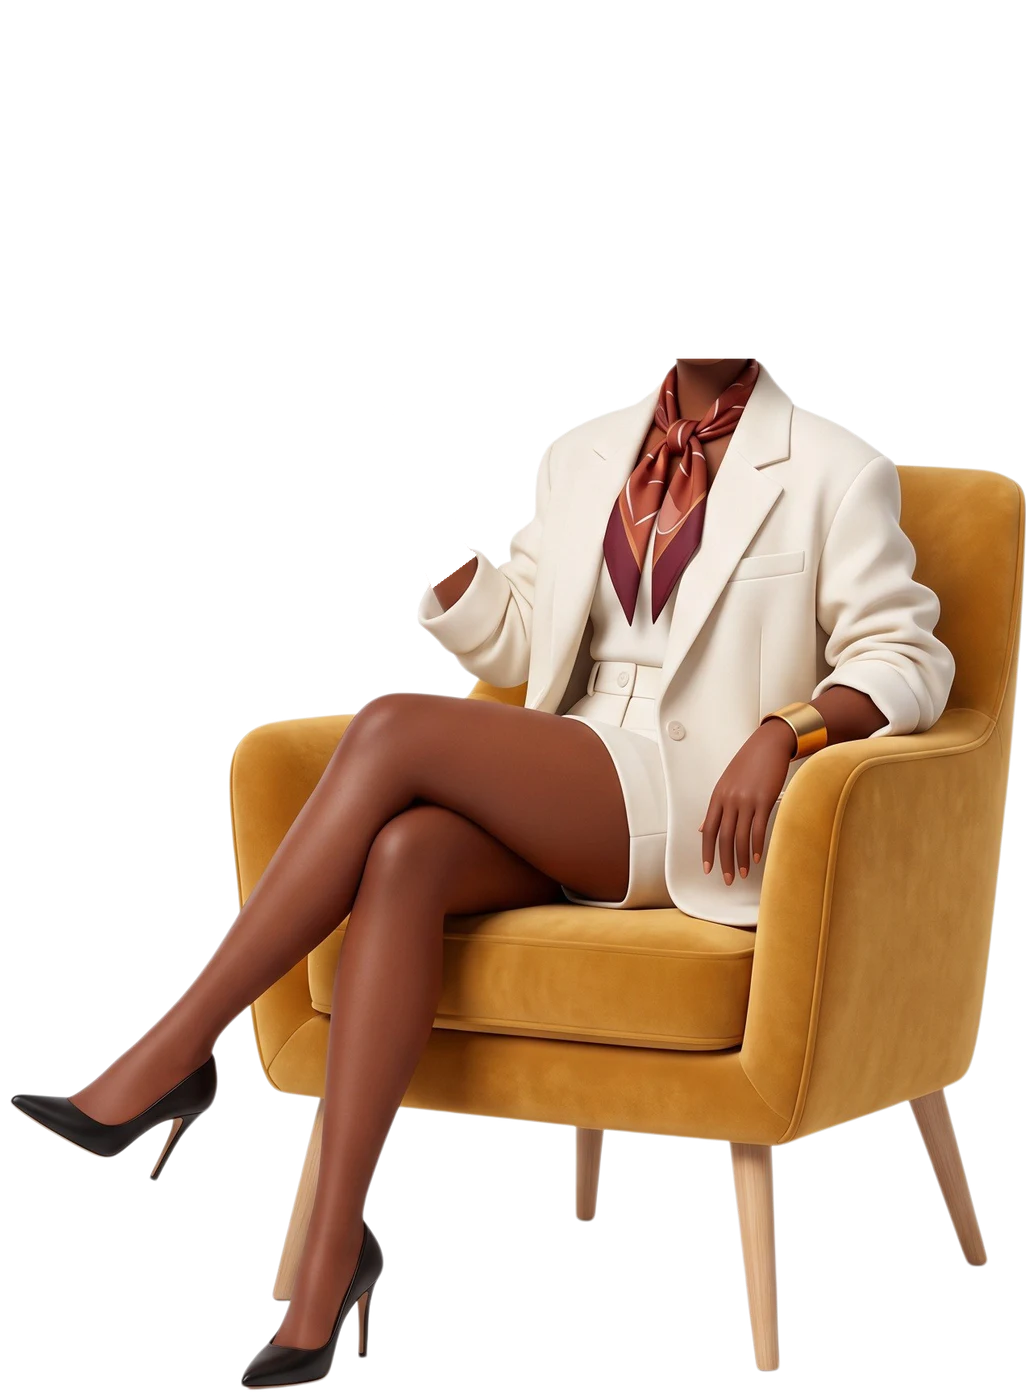
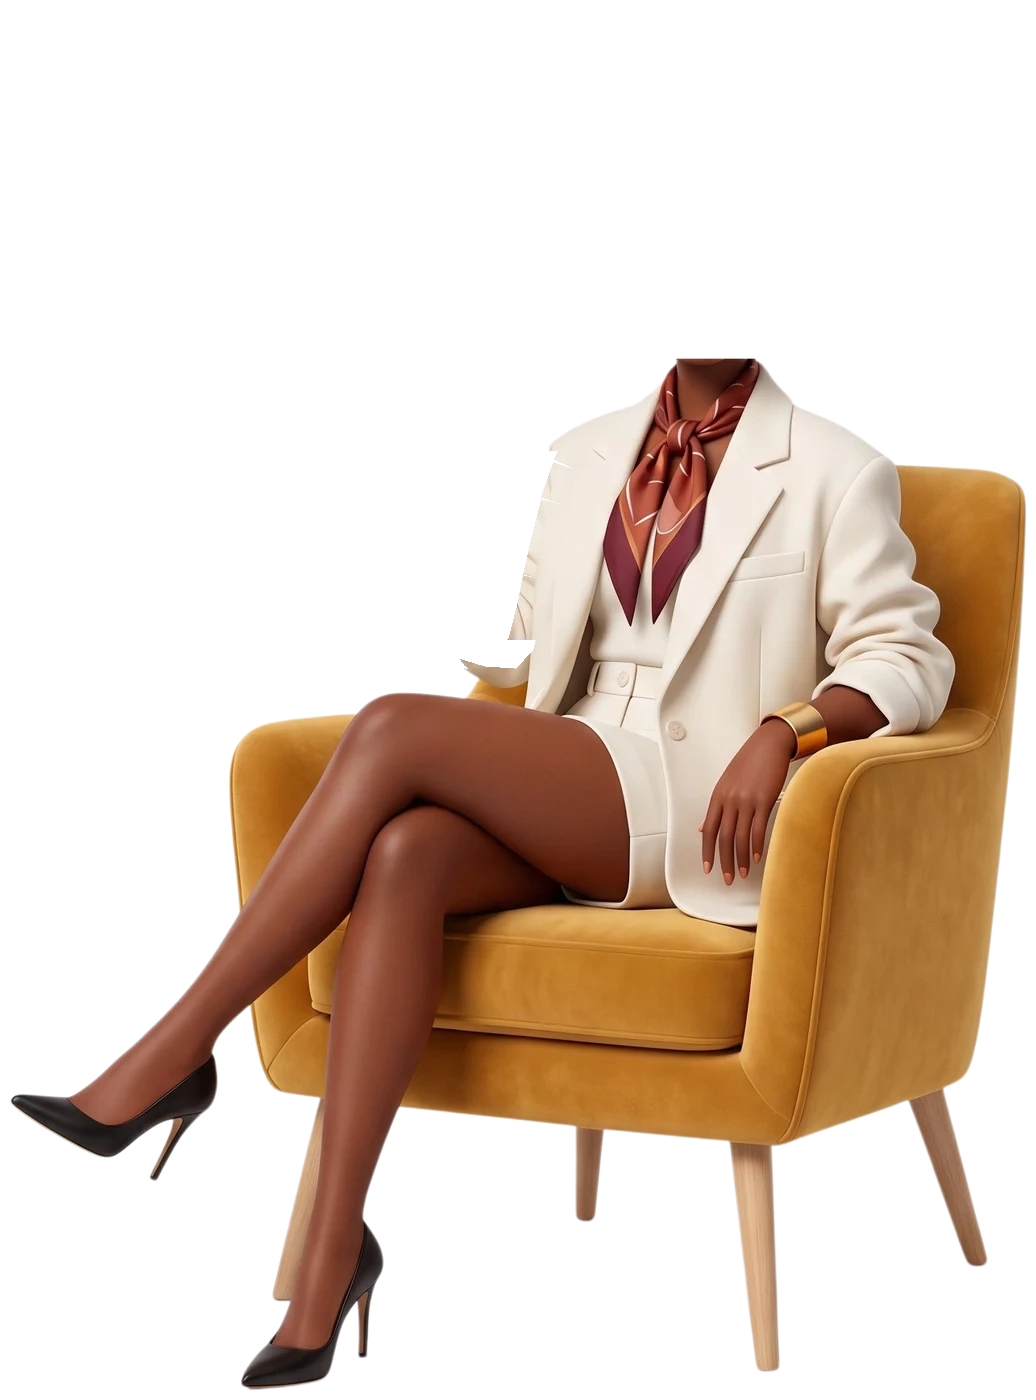
Héro : tout le bras d'Audrey bouge (épaule + coude), sans coupure à la manche
- Nouvelle découpe : manche entière pivot à l'épaule, avant-bras prolongé dans
  la manchette pivot au coude, ombre intérieure de la manchette
- Le coude rentre contre le buste et la main se pose sur le genou
- Pose de repos identique à l'image d'origine (vérifiée au pixel)
- Manche sur la grille du corps et en léger débord : plus de liseré

Claude-Session: https://claude.ai/code/session_0173xetCNHq8EPCSjJXU8STi

Changed region(s): [[0.4015, 0.3379, 0.5251, 0.4914], [0.5251, 0.3071, 0.556, 0.3379]]

diff --git a/components/scene/Character.tsx b/components/scene/Character.tsx
@@ -27,7 +27,11 @@ const TEXTURES = [
   "/scene/character-irises.webp",
   "/scene/character-eyemask.webp",
   "/scene/character-depth.webp",
+  "/scene/character-sleeve.webp",
+  "/scene/character-cuff.webp",
 ];
+/** Index des textures de données (pas de conversion sRGB). */
+const LINEAR = new Set([5, 6]);
 
 type ShaderLike = { uniforms: Record<string, unknown>; fragmentShader: string };
 
@@ -40,15 +44,19 @@ type ShaderLike = { uniforms: Record<string, unknown>; fragmentShader: string };
  */
 export function Character({ hand }: { hand: Vector3 }) {
   const gl = useThree((s) => s.gl);
-  const [bodyMap, headMap, armMap, stringsMap, irisMap, eyeMask, depth] = useTexture(TEXTURES, (textures) => {
-    const list = Array.isArray(textures) ? textures : [textures];
-    // Couleurs en sRGB ; le masque et la profondeur restent des données linéaires.
-    for (const t of list.slice(0, 5)) {
-      t.colorSpace = SRGBColorSpace;
-      t.anisotropy = Math.min(8, gl.capabilities.getMaxAnisotropy());
-      t.needsUpdate = true;
-    }
-  });
+  const [bodyMap, headMap, armMap, stringsMap, irisMap, eyeMask, depth, sleeveMap, cuffMap] = useTexture(
+    TEXTURES,
+    (textures) => {
+      const list = Array.isArray(textures) ? textures : [textures];
+      // Couleurs en sRGB ; le masque et la profondeur restent des données linéaires.
+      for (const [i, t] of list.entries()) {
+        if (LINEAR.has(i)) continue;
+        t.colorSpace = SRGBColorSpace;
+        t.anisotropy = Math.min(8, gl.capabilities.getMaxAnisotropy());
+        t.needsUpdate = true;
+      }
+    },
+  );
   const camera = useThree((s) => s.camera);
   const size = useThree((s) => s.size);
 
@@ -76,6 +84,7 @@ export function Character({ hand }: { hand: Vector3 }) {
   // Pixel du personnage (character.png) → coordonnées locales du plan.
   const headPivot = useMemo(() => toLocal(RIG.headPivot, w, h), [w, h]);
   const elbow = useMemo(() => toLocal(RIG.elbow, w, h), [w, h]);
+  const shoulder = useMemo(() => toLocal(RIG.shoulder, w, h), [w, h]);
 
   // Largeur visible au plan z=0 depuis la position de départ de la caméra.
   const fov = "fov" in camera ? (camera as { fov: number }).fov : 35;
@@ -95,7 +104,11 @@ export function Character({ hand }: { hand: Vector3 }) {
 
   // Iris injectés dans le matériau de la tête : décalés par un uniform, limités au masque.
   const irisUniforms = useMemo(
-    () => ({ irisMap: { value: irisMap }, eyeMask: { value: eyeMask }, irisOffset: { value: new Vector2() } }),
+    () => ({
+      irisMap: { value: irisMap },
+      eyeMask: { value: eyeMask },
+      irisOffset: { value: new Vector2() },
+    }),
     [irisMap, eyeMask],
   );
   const onHeadCompile = useMemo(
@@ -120,6 +133,9 @@ export function Character({ hand }: { hand: Vector3 }) {
   const group = useRef<Group>(null);
   const headGroup = useRef<Group>(null);
   const armGroup = useRef<Group>(null);
+  const shoulderGroup = useRef<Group>(null);
+  const sleeveMat = useRef<MeshStandardMaterial>(null);
+  const cuffMat = useRef<MeshStandardMaterial>(null);
   const armMat = useRef<MeshStandardMaterial>(null);
   const bodyMat = useRef<MeshStandardMaterial>(null);
   const headMat = useRef<MeshStandardMaterial>(null);
@@ -128,13 +144,14 @@ export function Character({ hand }: { hand: Vector3 }) {
 
   useFrame((state) => {
     const g = group.current;
-    if (!g || !headGroup.current || !armGroup.current) return;
+    if (!g || !headGroup.current || !armGroup.current || !shoulderGroup.current) return;
     const t = introTime(state.clock.elapsedTime);
     // Entrée : arrivée depuis le bas avec léger dépassement, puis fondu.
     const rise = t < 0 ? 0 : easeOutBack(clamp01((t - SEQ.chair) / 0.75), 1.2);
     const fade = t < 0 ? 0 : easeOutCubic(clamp01((t - SEQ.chair) / 0.6));
     const settle = t < 0 ? 0 : easeOutCubic(clamp01((t - SEQ.character) / 0.5));
-    for (const m of [armMat.current, bodyMat.current, headMat.current]) if (m) m.opacity = fade;
+    for (const m of [armMat.current, bodyMat.current, headMat.current, sleeveMat.current, cuffMat.current])
+      if (m) m.opacity = fade;
 
     const p = sceneState.progress;
     const cam = phase(p, SCROLL.hero.phases.camera);
@@ -158,17 +175,22 @@ export function Character({ hand }: { hand: Vector3 }) {
     // Lâcher : les ficelles du poing partent avec les ballons, puis le bras redescend.
     const release = phase(p, RIG.stringsRelease);
     if (stringsMat.current) stringsMat.current.opacity = fade * (1 - release);
-    const angle = phase(p, RIG.armLower) * RIG.armAngle;
-    armGroup.current.rotation.z = angle;
+    const lower = phase(p, RIG.armLower);
+    const sa = lower * RIG.shoulderAngle;
+    const fa = lower * RIG.armAngle;
+    shoulderGroup.current.rotation.z = sa;
+    armGroup.current.rotation.z = fa;
 
-    // Main (pour accrocher les ficelles 3D) : tournée autour du coude avec l'avant-bras.
-    const c = Math.cos(angle);
-    const s = Math.sin(angle);
-    const hx = handLocal.x - elbow.x;
-    const hy = handLocal.y - elbow.y;
+    // Main (pour accrocher les ficelles 3D) : avant-bras autour du coude, puis bras à l'épaule.
+    let hx = handLocal.x - elbow.x;
+    let hy = handLocal.y - elbow.y;
+    [hx, hy] = [hx * Math.cos(fa) - hy * Math.sin(fa), hx * Math.sin(fa) + hy * Math.cos(fa)];
+    hx += elbow.x - shoulder.x;
+    hy += elbow.y - shoulder.y;
+    [hx, hy] = [hx * Math.cos(sa) - hy * Math.sin(sa), hx * Math.sin(sa) + hy * Math.cos(sa)];
     hand.set(
-      g.position.x + (elbow.x + hx * c - hy * s) * grow,
-      g.position.y + (elbow.y + hx * s + hy * c) * grow,
+      g.position.x + (shoulder.x + hx) * grow,
+      g.position.y + (shoulder.y + hy) * grow,
       g.position.z + handLocal.z,
     );
   });
@@ -192,24 +214,36 @@ export function Character({ hand }: { hand: Vector3 }) {
 
   return (
     <group ref={group} position={[x, CHARACTER.y - 1.6, 0]}>
-      {/* Avant-bras, derrière le corps : la manchette le recouvre au coude */}
-      <group ref={armGroup} position={[elbow.x, elbow.y, 0]}>
-        <group position={[-elbow.x, -elbow.y, 0]}>
-          <mesh geometry={armGeometry} renderOrder={1}>
-            {material(armMap, armMat)}
+      <mesh geometry={geometry} renderOrder={1}>
+        {material(bodyMap, bodyMat)}
+      </mesh>
+      {/* Bras entier, pivot à l'épaule. Manche et manchette sur la grille du corps
+          (déformation de profondeur identique au pixel près, pas de liseré). Ordre : intérieur de la manchette, avant-bras
+          (pivot au coude, caché dans la manchette), puis la manche par-dessus. */}
+      <group ref={shoulderGroup} position={[shoulder.x, shoulder.y, 0]}>
+        <group position={[-shoulder.x, -shoulder.y, 0]}>
+          <mesh geometry={geometry} renderOrder={2}>
+            {material(cuffMap, cuffMat)}
           </mesh>
-          <mesh geometry={armGeometry} renderOrder={3}>
-            {material(stringsMap, stringsMat)}
+          <group ref={armGroup} position={[elbow.x, elbow.y, 0]}>
+            <group position={[-elbow.x, -elbow.y, 0]}>
+              <mesh geometry={armGeometry} renderOrder={3}>
+                {material(armMap, armMat)}
+              </mesh>
+              <mesh geometry={armGeometry} renderOrder={5}>
+                {material(stringsMap, stringsMat)}
+              </mesh>
+            </group>
+          </group>
+          <mesh geometry={geometry} renderOrder={4}>
+            {material(sleeveMap, sleeveMat)}
           </mesh>
         </group>
       </group>
-      <mesh geometry={geometry} renderOrder={2}>
-        {material(bodyMap, bodyMat)}
-      </mesh>
       {/* Tête : pivote autour du cou */}
       <group ref={headGroup} position={[headPivot.x, headPivot.y, 0]}>
         <group position={[-headPivot.x, -headPivot.y, 0]}>
-          <mesh geometry={headGeometry} renderOrder={4}>
+          <mesh geometry={headGeometry} renderOrder={6}>
             {material(headMap, headMat, true)}
           </mesh>
         </group>
@@ -239,7 +273,10 @@ function toLocal([px, py]: readonly [number, number], w: number, h: number) {
 /** Copie floutée de la carte de profondeur (canvas 2D). Sans support de ctx.filter,
  *  on garde la carte d'origine. */
 function blurDepth(depth: Texture): Texture {
-  const src = depth.image as CanvasImageSource & { width: number; height: number };
+  const src = depth.image as CanvasImageSource & {
+    width: number;
+    height: number;
+  };
   const canvas = document.createElement("canvas");
   const scale = Math.min(1, 1024 / src.width);
   canvas.width = Math.round(src.width * scale);
@@ -257,7 +294,10 @@ function blurDepth(depth: Texture): Texture {
 
 /** Valeur (0–1) de la carte de profondeur en (u, v), v mesuré depuis le haut de l'image. */
 function sampleDepth(tex: Texture, u: number, v: number): number {
-  const src = tex.image as CanvasImageSource & { width: number; height: number };
+  const src = tex.image as CanvasImageSource & {
+    width: number;
+    height: number;
+  };
   const c = document.createElement("canvas");
   c.width = c.height = 1;
   const ctx = c.getContext("2d", { willReadFrequently: true });

diff --git a/components/scene/store.ts b/components/scene/store.ts
@@ -11,8 +11,7 @@ export const sceneState = {
 };
 
 /** Temps écoulé depuis le début de la séquence d'entrée (s), ou -1. */
-export const introTime = (elapsed: number) =>
-  sceneState.introStart < 0 ? -1 : elapsed - sceneState.introStart;
+export const introTime = (elapsed: number) => (sceneState.introStart < 0 ? -1 : elapsed - sceneState.introStart);
 
 export const SEQ = HERO_SEQUENCE;
 
@@ -54,6 +53,8 @@ export const RIG = {
   /** Rectangles utiles (x0, y0, x1, y1) : tête + cou, avant-bras + ficelles du poing. */
   headRect: [720, 0, 1286, 472] as const,
   armRect: [376, 436, 632, 862] as const,
+  /** Bras entier : la manche (bras + manchette) pivote à l'épaule, l'avant-bras au coude. */
+  shoulder: [686, 536] as const,
   /** Course maximale des iris (px) en x / y, et inclinaison de la tête (rad). */
   irisRange: [7, 5] as const,
   headTilt: 0.05,
@@ -64,8 +65,10 @@ export const RIG = {
   balloonGaze: [-0.6, 1] as const,
   lookAtBalloons: [0.15, 0.5] as const,
   lookBack: [0.82, 1] as const,
-  /** Ficelles du poing lâchées avec les premiers ballons, puis le bras redescend vers l'accoudoir (≈ 66°). */
+  /** Ficelles du poing lâchées avec les premiers ballons, puis tout le bras redescend :
+   *  l'épaule rentre le coude contre le buste (≈ 15°), l'avant-bras se pose sur le genou (≈ 80°). */
   stringsRelease: [0.24, 0.42] as const,
   armLower: [0.42, 0.72] as const,
-  armAngle: 1.15,
+  shoulderAngle: 0.26,
+  armAngle: 1.4,
 };

diff --git a/public/scene/README.md b/public/scene/README.md
@@ -22,10 +22,16 @@ Découpée dans `character.png` (coordonnées dans `components/scene/store.ts`, 
 
 | Fichier | Pièce |
 |---|---|
-| `character-body.webp` | Corps fixe (sans tête ni avant-bras ; le cou reste pour éviter un trou au pivot) |
+| `character-body.webp` | Corps fixe (sans tête ni bras ; le cou et une bande de veste le long de la manche restent pour éviter un trou) |
 | `character-head.webp` | Tête, yeux « vides » (blanc de l'œil redessiné sous l'iris) |
 | `character-irises.webp` + `character-eyemask.webp` | Iris décalés dans le shader, limités à l'ouverture de l'œil |
-| `character-forearm.webp` | Avant-bras + main, pivot au coude caché dans la manchette |
+| `character-sleeve.webp` | Manche (bras + manchette), pivot à l'épaule : tout le bras bouge |
+| `character-forearm.webp` | Avant-bras + main (prolongé dans la manchette), pivot au coude caché dans la manche |
+| `character-cuff.webp` | Ombre de l'intérieur de la manchette, visible quand l'avant-bras s'abaisse |
 | `character-strings.webp` | Ficelles tenues dans le poing, lâchées avec les ballons |
 
 Si l'illustration change, régénérer ces fichiers (repérer à nouveau iris, cou, coude).
+
+Pose de repos vérifiée au pixel près (corps + manchette + avant-bras + manche = image d'origine).
+La manche déborde de 2 px sur le corps (pas de liseré au filtrage) et utilise la même grille
+que le corps (déformation de profondeur identique).
